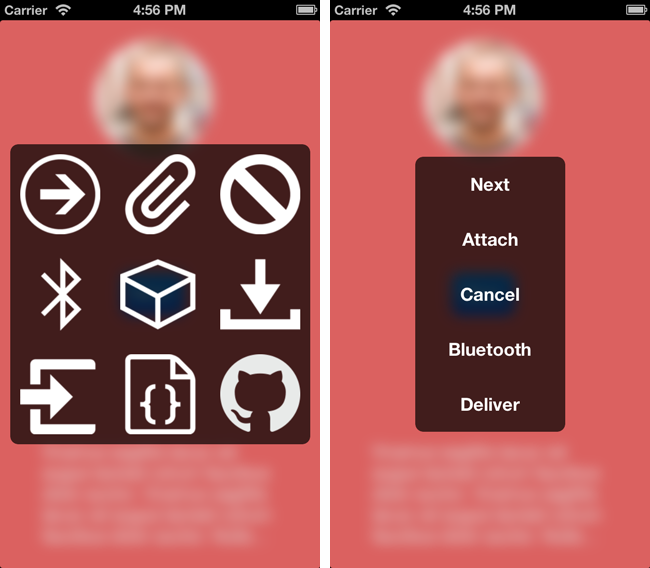
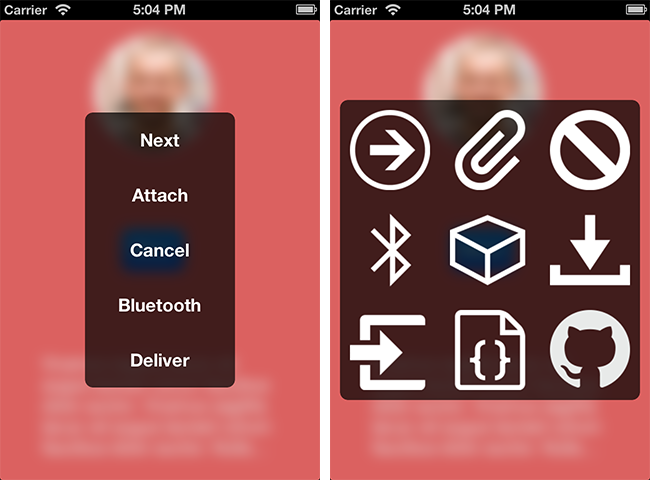
smaller images

diff --git a/RNAlertView/RNViewController.m b/RNAlertView/RNViewController.m
@@ -35,7 +35,7 @@
 }
 
 - (IBAction)onShowButton:(id)sender {
-    [self showList];
+    [self showImagesOnly];
 }
 
 - (void)showImagesOnly {
